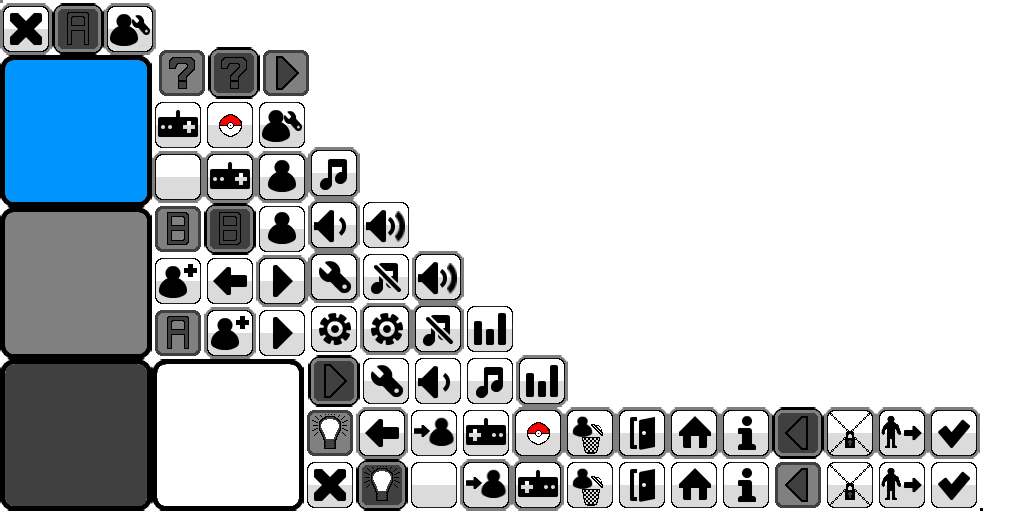
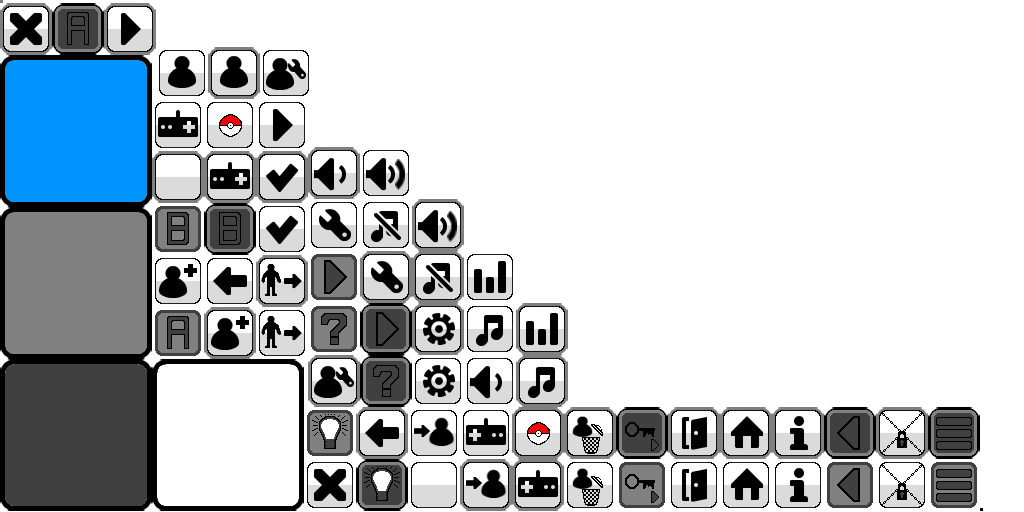
Added Buttons

diff --git a/core/src/com/retroMachines/ui/screens/game/GameScreen.java b/core/src/com/retroMachines/ui/screens/game/GameScreen.java
@@ -39,6 +39,7 @@ public class GameScreen extends AbstractScreen implements
 	private final static float DEFAULTPADDINGx2 = 50f;
 	private final static float DEFAULTPADDINGx4 = 100f;
 	public static final int OBJECT_LAYER = 5;
+	private final static int COLSPANx2 = 2;
 	
 	
 	
@@ -252,7 +253,20 @@ public class GameScreen extends AbstractScreen implements
 		buttonQuest.addListener(new GetTaskClickListener());
 		buttonQuest.setColor(1, 1, 1, 0.66f);
 		
+		Button buttonMenu = new Button(skin, "menu");
+		buttonMenu.pad(screenHeight / DEFAULTBUTTONSIZE);
+		buttonMenu.addListener(new GetTaskClickListener());
+		buttonMenu.setColor(1, 1, 1, 0.66f);
+		
+		Button buttonEvaluation = new Button(skin, "evaluation");
+		buttonEvaluation.pad(screenHeight / DEFAULTBUTTONSIZE);
+		buttonEvaluation.addListener(new GetTaskClickListener());
+		buttonEvaluation.setColor(1, 1, 1, 0.66f);
+		
 		//Make Table
+		table.add(buttonMenu).padTop(screenHeight / DEFAULTPADDINGx2).padLeft(screenWidth/ DEFAULTPADDINGx4).left();
+		table.add(buttonEvaluation).padTop(screenHeight / DEFAULTPADDINGx2).padRight(screenWidth/ DEFAULTPADDINGx4).right().row();
+		
 		table.add().expand().row();
 		
 		innerButtonTable.add(buttonHint).padRight(screenWidth / DEFAULTPADDINGx4).padLeft(screenWidth / DEFAULTPADDING).padBottom(screenWidth / DEFAULTPADDINGx2);
@@ -273,7 +287,7 @@ public class GameScreen extends AbstractScreen implements
 			buttonTable.add(buttonA).padRight(screenWidth / DEFAULTPADDINGx2).padLeft(screenWidth / DEFAULTPADDINGx4).padBottom(screenWidth / DEFAULTPADDINGx2);
 		}
 		
-		table.add(buttonTable);
+		table.add(buttonTable).colspan(COLSPANx2);
 		stage.addActor(table);
 		
 		inputMultiplexer.addProcessor(stage);
